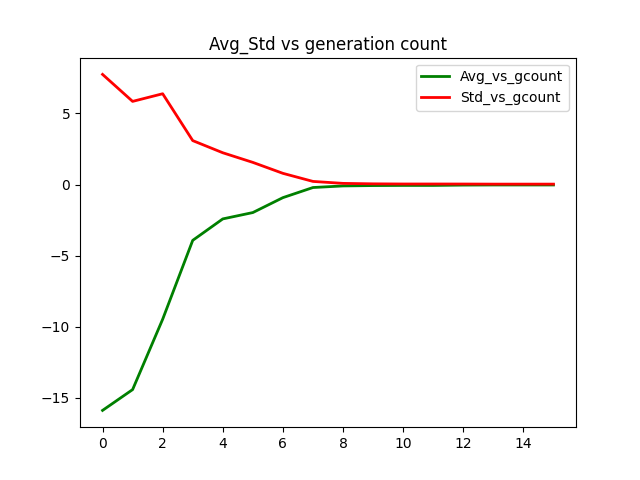
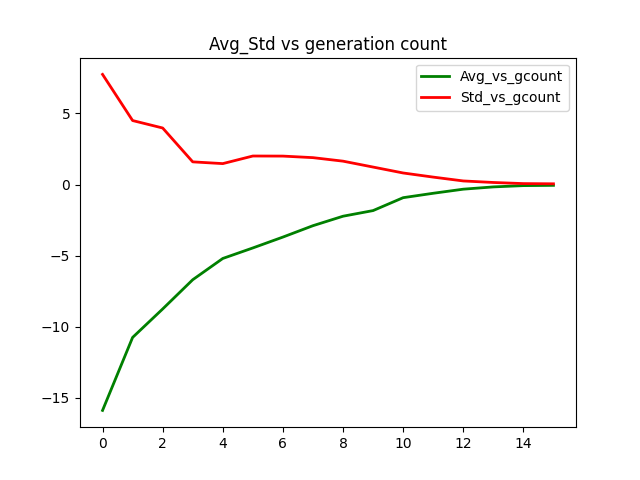
Add files via upload

diff --git a/HW/hw4/EC_hw4_cky.py b/HW/hw4/EC_hw4_cky.py
@@ -138,26 +138,26 @@ class Individual:
         return Individual(childx,fitnessFunc(childx))
     
     def mutate(self):
+        #Claulate the sigma' of previous generation
         x_list=[]
-        mutation_list=[]
         for p in self:
             x_list.append(p.x)
-        original_std=np.std(x_list,ddof=1)
+        original_std=np.std(x_list[:10],ddof=1) #Only the first 10 people be calculated into sigma
         tau = 1/(len(x_list)**(1/2))
         N = np.random.normal(0,1)
         new_std=original_std*np.exp(tau*N)
-        if new_std > 2.0:
-            new_std = 2.0
-        elif new_std < -2.0:
-            new_std = -2.0
+        if new_std > 3.0:
+            new_std = 3.0
+        elif new_std < -3.0:
+            new_std = -3.0
         else:
             new_std = new_std
 
-        for p in self:
-            p.x = p.x + new_std*N
-            mutation_list.append(p.x)
+        #For new child it'll mutate 
+        self[-1] = Individual(self[-1].x + new_std*N,fitnessFunc(self[-1].x + new_std*N))   #The newest one in the list will get mutated
         
-        return mutation_list
+        
+        return self
 
 
 #EV1: The simplest EA ever!
@@ -193,13 +193,12 @@ def ev1(cfg):
 
     #evolution main loop
     for i in range(cfg.generationCount):    #Do for i=0 ~ 49
-        #self-adaptive mutation
-        Individual.mutate(population)
-        
+   
         for j in range(5):
             parents=prng.sample(population,2)       #Randomly choose 2 parents each time while generatie a child
-            child=Individual.crossover(parents[0].x,parents[1].x)   #Create 1 children 
-            population.append(child)
+            child=Individual.crossover(parents[0].x,parents[1].x)   #Create 1 children by crossover
+            population.append(child)                              #Temporary add that child to population
+            population=Individual.mutate(population)              #Then Mutate the new born child  with previous generation sigma (self-adaptive)
 
         
         
